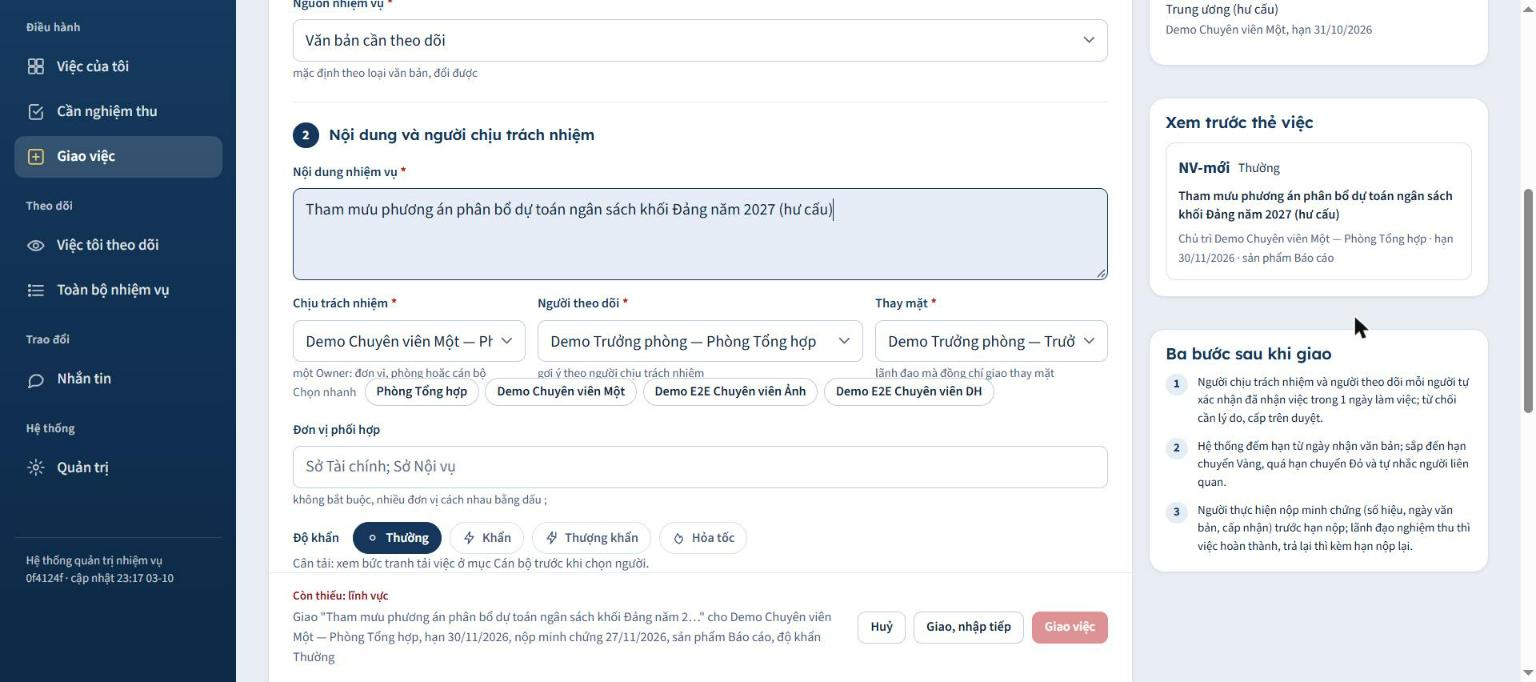
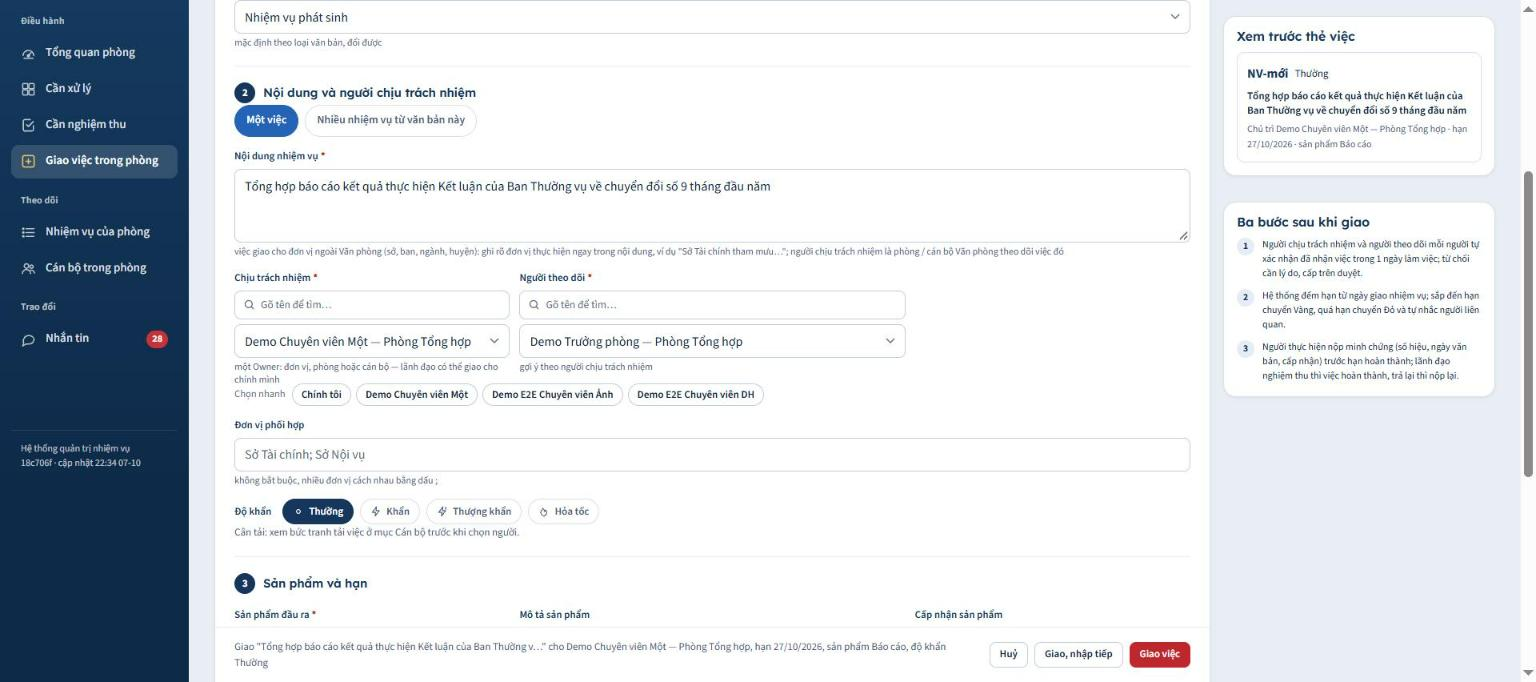
docs: phát hành v3.17.0 — CHANGELOG 53–56, TRANG-THAI, hướng dẫn sử dụng v3.17 (thẻ nhiều nhiệm vụ, tìm nhanh, bỏ hạn nộp minh chứng; 4 ảnh chụp lại trên staging)
Claude-Session: https://claude.ai/code/session_016CpGzbs1aZfDs6AuZ5GTv4

diff --git a/docs/huong-dan-su-dung/cat.py b/docs/huong-dan-su-dung/cat.py
@@ -45,6 +45,10 @@ CAT = {
   'td-06-sau-khi-them-cot': (268, 290, 1536, 545),
   'qt-08-ban-giao': (540, 20, 1020, 700),        # v3.15: hộp Bàn giao tài khoản (ảnh gốc 1568×703)
   'a1-04b-xuat-theo-ky': (560, 140, 1000, 620),   # v3.16: hộp Xuất Excel theo kỳ (ảnh gốc 1568×752)
+  'gv-02-khoi-2': (215, 60, 1210, 560),           # v3.17: khối 2 — nút chế độ, ô tìm nhanh, Chính tôi (trang thu 80%)
+  'gv-03-khoi-3': (215, 150, 1210, 560),          # v3.17: khối 3 — Ngày giao nhiệm vụ, không còn hạn nộp minh chứng
+  'gv-04-nhieu-nhiem-vu': (215, 0, 1210, 682),    # v3.17: thẻ Nhiệm vụ 1 đủ ô, thẻ 2, nút Giao 2 việc
+  'gv-05-tim-nhanh': (215, 200, 1210, 500),       # v3.17: ô tìm nhanh đang gõ — danh sách chỉ còn người khớp + dòng kết quả
 }
 if len(sys.argv) > 1: CAT = {k: v for k, v in CAT.items() if k in sys.argv[1:]}
 for ten, box in CAT.items():

diff --git a/docs/TRANG-THAI.md b/docs/TRANG-THAI.md
@@ -1,4 +1,4 @@
-# TRẠNG THÁI DỰ ÁN — bản bàn giao (cập nhật: 2026-10-06, production đang chạy **`v3.16.0`** (v3.15.1 + xuất Excel theo tuần / tháng / quý / năm; migration 0001–0076, tag trên đầu nhánh `release/v3.16.0`, phát hành 6/10/2026). Đặc tả UI/UX hiện hành: `docs/DESIGN.md` mục 10 + `docs/ui-ux/mockup-v9.html`.)
+# TRẠNG THÁI DỰ ÁN — bản bàn giao (cập nhật: 2026-10-07, production đang chạy **`v3.16.0`** (migration 0001–0076); **`v3.17.0` đang phát hành** (Đợt A: bỏ hạn nộp minh chứng, giao nhiều nhiệm vụ bằng thẻ, giao cho chính mình, tìm nhanh; migration 0077–0078, tag trên đầu nhánh `release/v3.17.0`). Đặc tả UI/UX hiện hành: `docs/DESIGN.md` mục 10 + `docs/ui-ux/mockup-v9.html`.)
 
 Đọc trước: `CLAUDE.md` (quy tắc), **`docs/MUC-TIEU-1400.md` (thước đo mọi giai đoạn)**, `docs/SPEC.md` (v3, nghiệp vụ), `docs/RA-SOAT-HIEN-TRANG.md` (giữ/sửa/hợp nhất/bỏ), `docs/CAU-HOI-NGHIEP-VU.md` (15 câu chờ chủ dự án), `docs/LO-TRINH-V3.md` (GĐ14–24, migration từ 0022), `docs/DESIGN.md` (hệ thống thiết kế; **mục 10 = giao diện v9, đặc tả hiện hành**) + **`docs/ui-ux/mockup-v9.html`** (bản mẫu v9; `mockup-v8/` và `mockup-v7.html` là lịch sử — v9 thắng khi khác), `docs/kien-truc.md` (pipeline, secret, quay lui), `docs/PROMPTS.md` (prompt theo giai đoạn). Tra cứu: `docs/SPEC-v2-luu.md` (mã yêu cầu cũ), `docs/thiet-ke-theo-doi-kl-btvtu.md` (thiết kế GĐ8–10, đóng băng). Lịch sử: `CHANGELOG.md` mục 7–20.
 
@@ -101,5 +101,7 @@ git tag v2.x.y && git push origin v2.x.y                        # → deploy-pro
 -8. **Tự đăng xuất khi không thao tác — v3.15.1** (5/10/2026, PR #110, CHANGELOG 50, SPEC NF-14): 30 phút không thao tác → đăng xuất thiết bị đó (signOut scope local), nhắc trước 2 phút, tải lại sau quá hạn không vào app; khoá kiểm thử `vptu-phut-het-phien`. **Khi chủ dự án lên gói Supabase Pro (sẽ báo)**, làm một lượt: (1) `supabase/config.toml` `[auth.sessions] inactivity_timeout = "30m"` (+ cân nhắc `timebox = "24h"`) → `config diff` → `config push` (xác nhận trong phiên) — lớp máy chủ cho NF-14; (2) bật hook khoá tài khoản AUTH-3 (`[auth.hook.password_verification_attempt] enabled = true`, mục 8 ở trên); (3) tệp đính kèm minh chứng qua Storage (NF-12, SPEC 3.3); (4) nâng compute staging nếu vẫn cạn Disk IO khi chạy e2e.
 
 -9. **Xuất Excel theo kỳ — v3.16.0** (6/10/2026, PR #112 + #113 + release/v3.16.0, CHANGELOG 51–52): màn Nhiệm vụ → *Xuất theo kỳ…* (tuần ISO / tháng / quý / năm; 6 sheet). Sự cố CI cùng ngày: runner không có IPv6 → mọi `db push` trong workflow phải `supabase link` trước (#113); `backup-db.sh` chưa đổi — nếu backup định kỳ kế tiếp đỏ với "IPv6 is not supported" thì thêm `supabase link` vào script (chỉ trong CI).
+
+-10. **Đợt A tối ưu 7/10 — v3.17.0** (7/10/2026, PR #115 0077 + #116 0078 + #117 + release/v3.17.0, CHANGELOG 53–56; kế hoạch 4 đợt theo 9 yêu cầu 7/10 ghi ở CHANGELOG 53): bỏ hạn nộp minh chứng; biểu mẫu Giao việc có chế độ "Nhiều nhiệm vụ từ văn bản này" (thẻ Nhiệm vụ 1…20, mỗi thẻ đủ ô, ngành / lĩnh vực riêng — `giao_viec_nhieu`), lãnh đạo giao cho chính mình, ô tìm nhanh người (danh sách mở khi gõ), nhãn "Ngày giao nhiệm vụ"; CI: PR có migration tự `db push` lên staging trước e2e; `scripts/rls-chu-thich.sh` đưa test RLS đỏ + 25 dòng cuối log thành annotation. HDSD v3.17 dựng lại (52 trang). **Khi áp production**: 0077 xoá dữ liệu hạn nộp hiện có — cần chủ dự án xác nhận trong phiên. Còn lại của kế hoạch: Đợt B v3.18 (Owner luôn là phòng / cán bộ VPTU — bỏ đơn vị ngoài; thay mặt theo nhóm Lãnh đạo Văn phòng / Thường trực), Đợt C v3.19 (giao tiếp xuống điền sẵn + chuỗi; "Giao thêm nhiệm vụ từ văn bản này"), Đợt D v3.20 (minh chứng kèm tệp ≤ 10 MB bucket riêng; mở rộng danh mục ngành / loại văn bản / sản phẩm — bảng đề xuất trước). Lưu ý vận hành: e2e staging đỏ chập chờn khi chạy liền nhau (3 lần 3 spec khác nhau trong #117) — chạy lại khi staging rảnh ≥ 45 phút; `rerun-failed-jobs` qua API có lúc trả 500 → đẩy commit rỗng. Dữ liệu thử trên staging: NV-6176, NV-6177 (văn bản KT-3171-GV).
 
 Phiên kế tiếp: chủ dự án bàn giao tài khoản trên production (6.-7); việc tay mục 6.-5 (cấp quyền người nhập Excel trên production, dọn staging); ba ghi nhận ở 6.-6; rồi các mục còn lại ở 6.-2 / 6.-4 (chu kỳ lặp sau go-live, .ics, câu hỏi J-6). Từ 4/10: laptop không bật Docker Desktop — CLAUDE.md quy tắc 13, `docs/KIEM-THU.md` mục "Làm việc không cần Docker Desktop".
